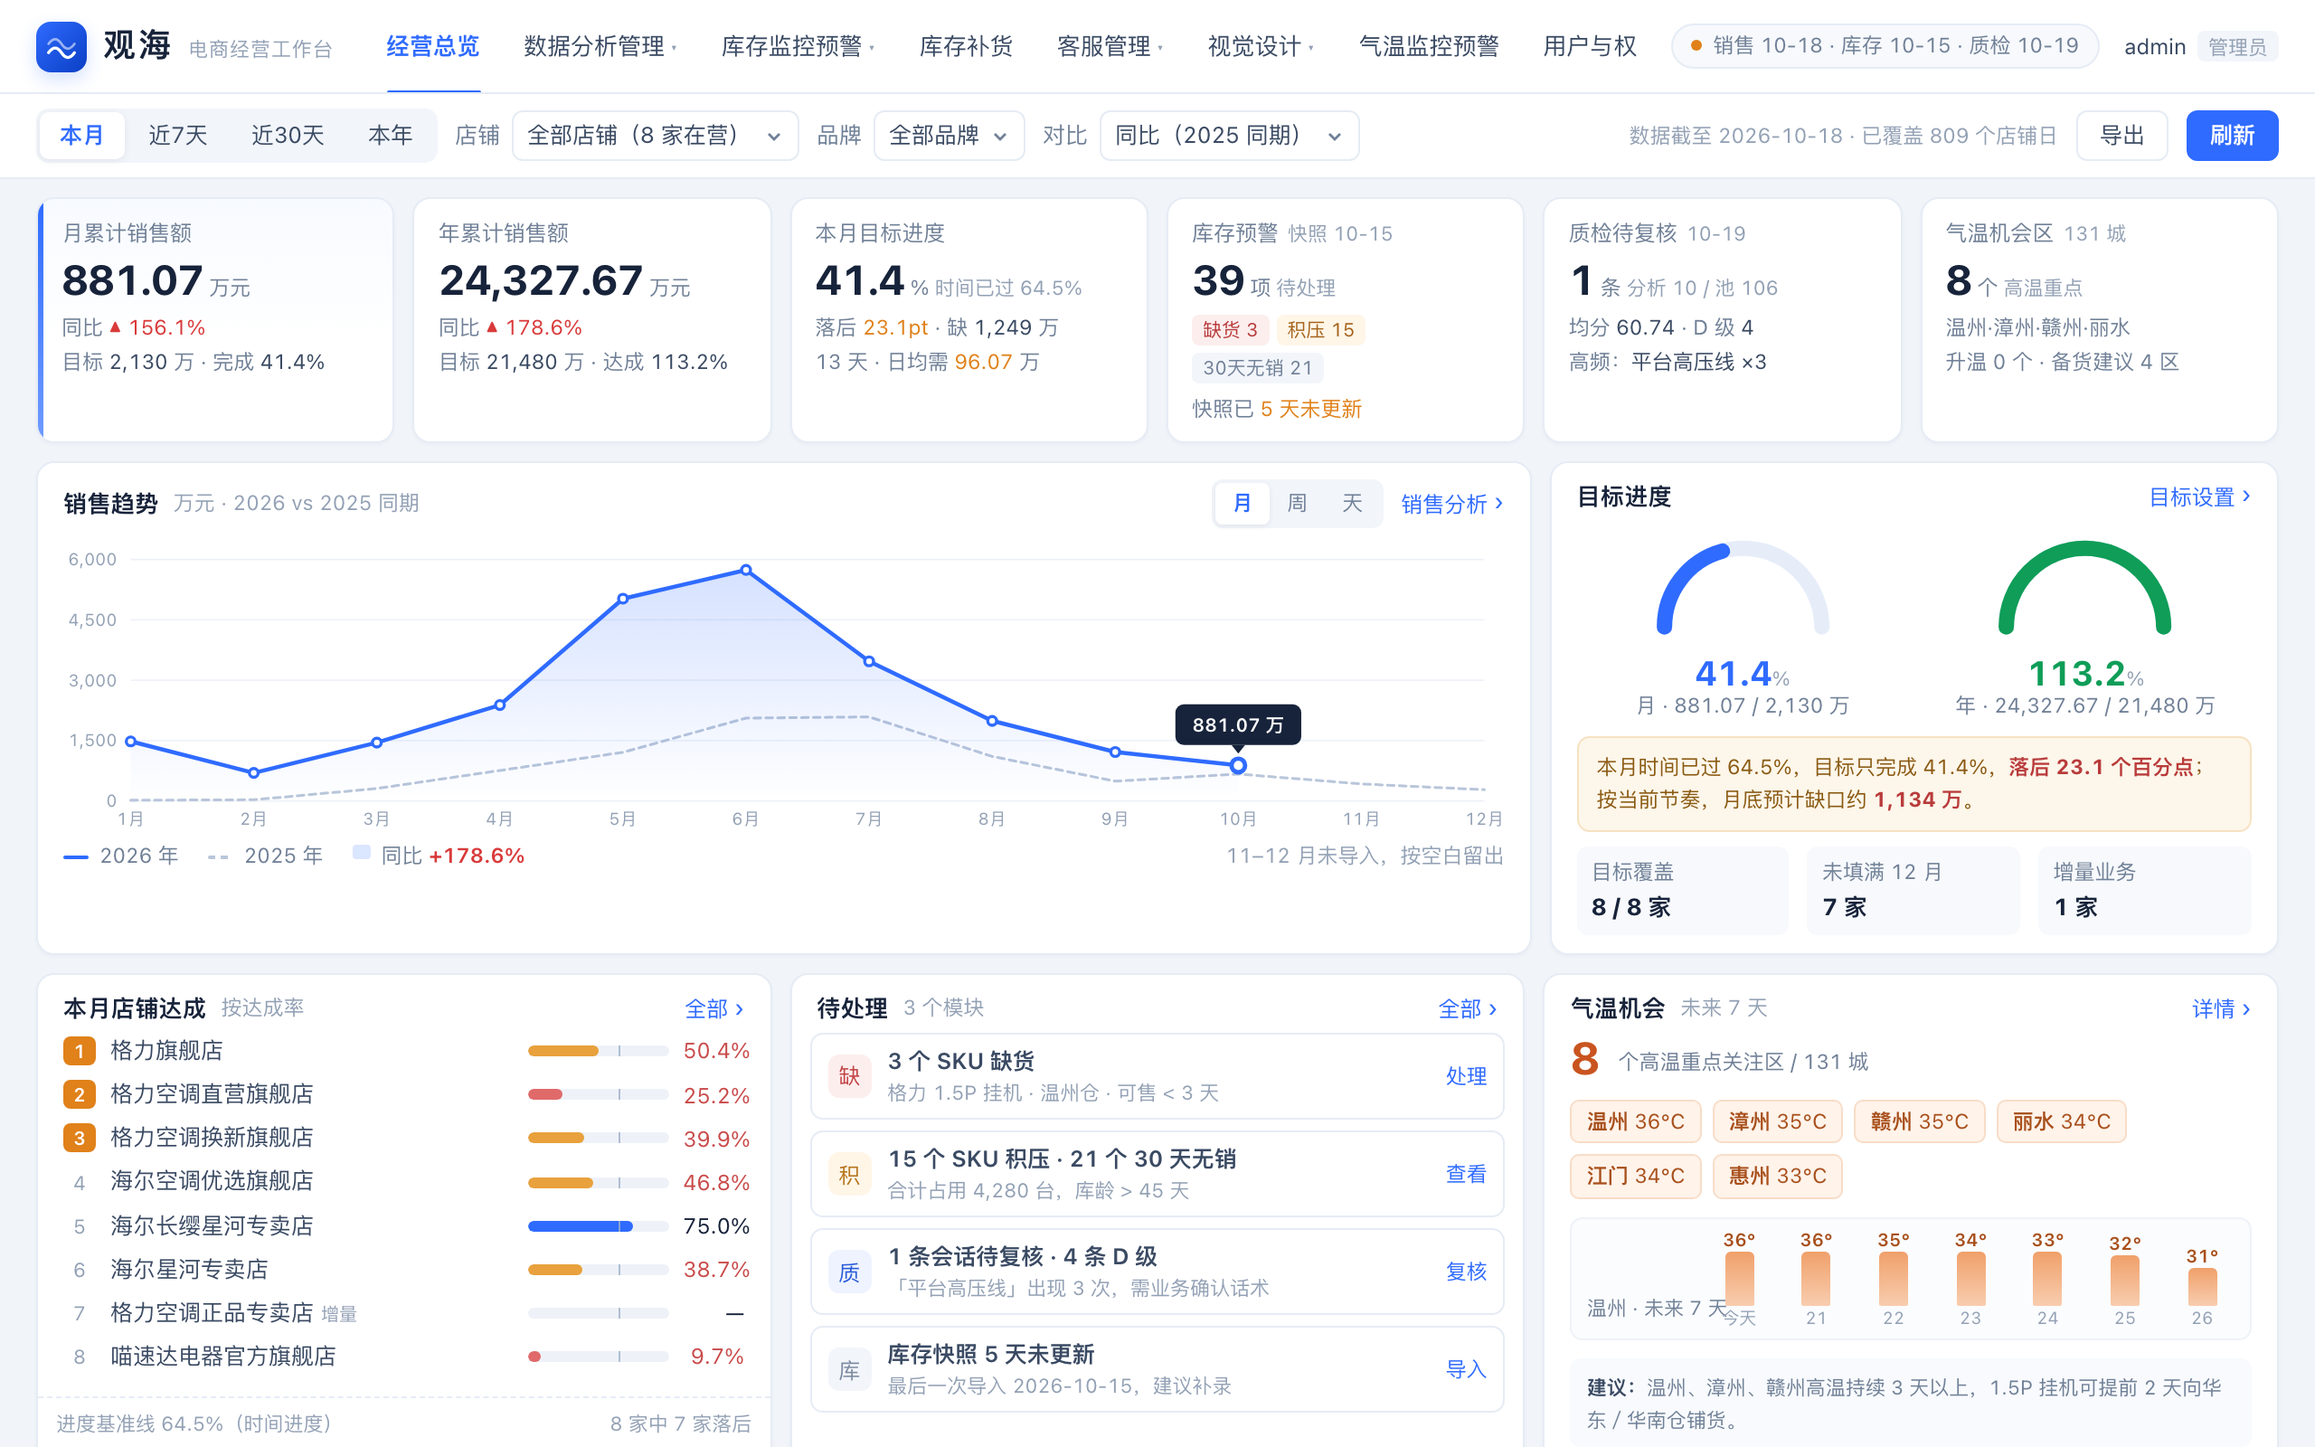
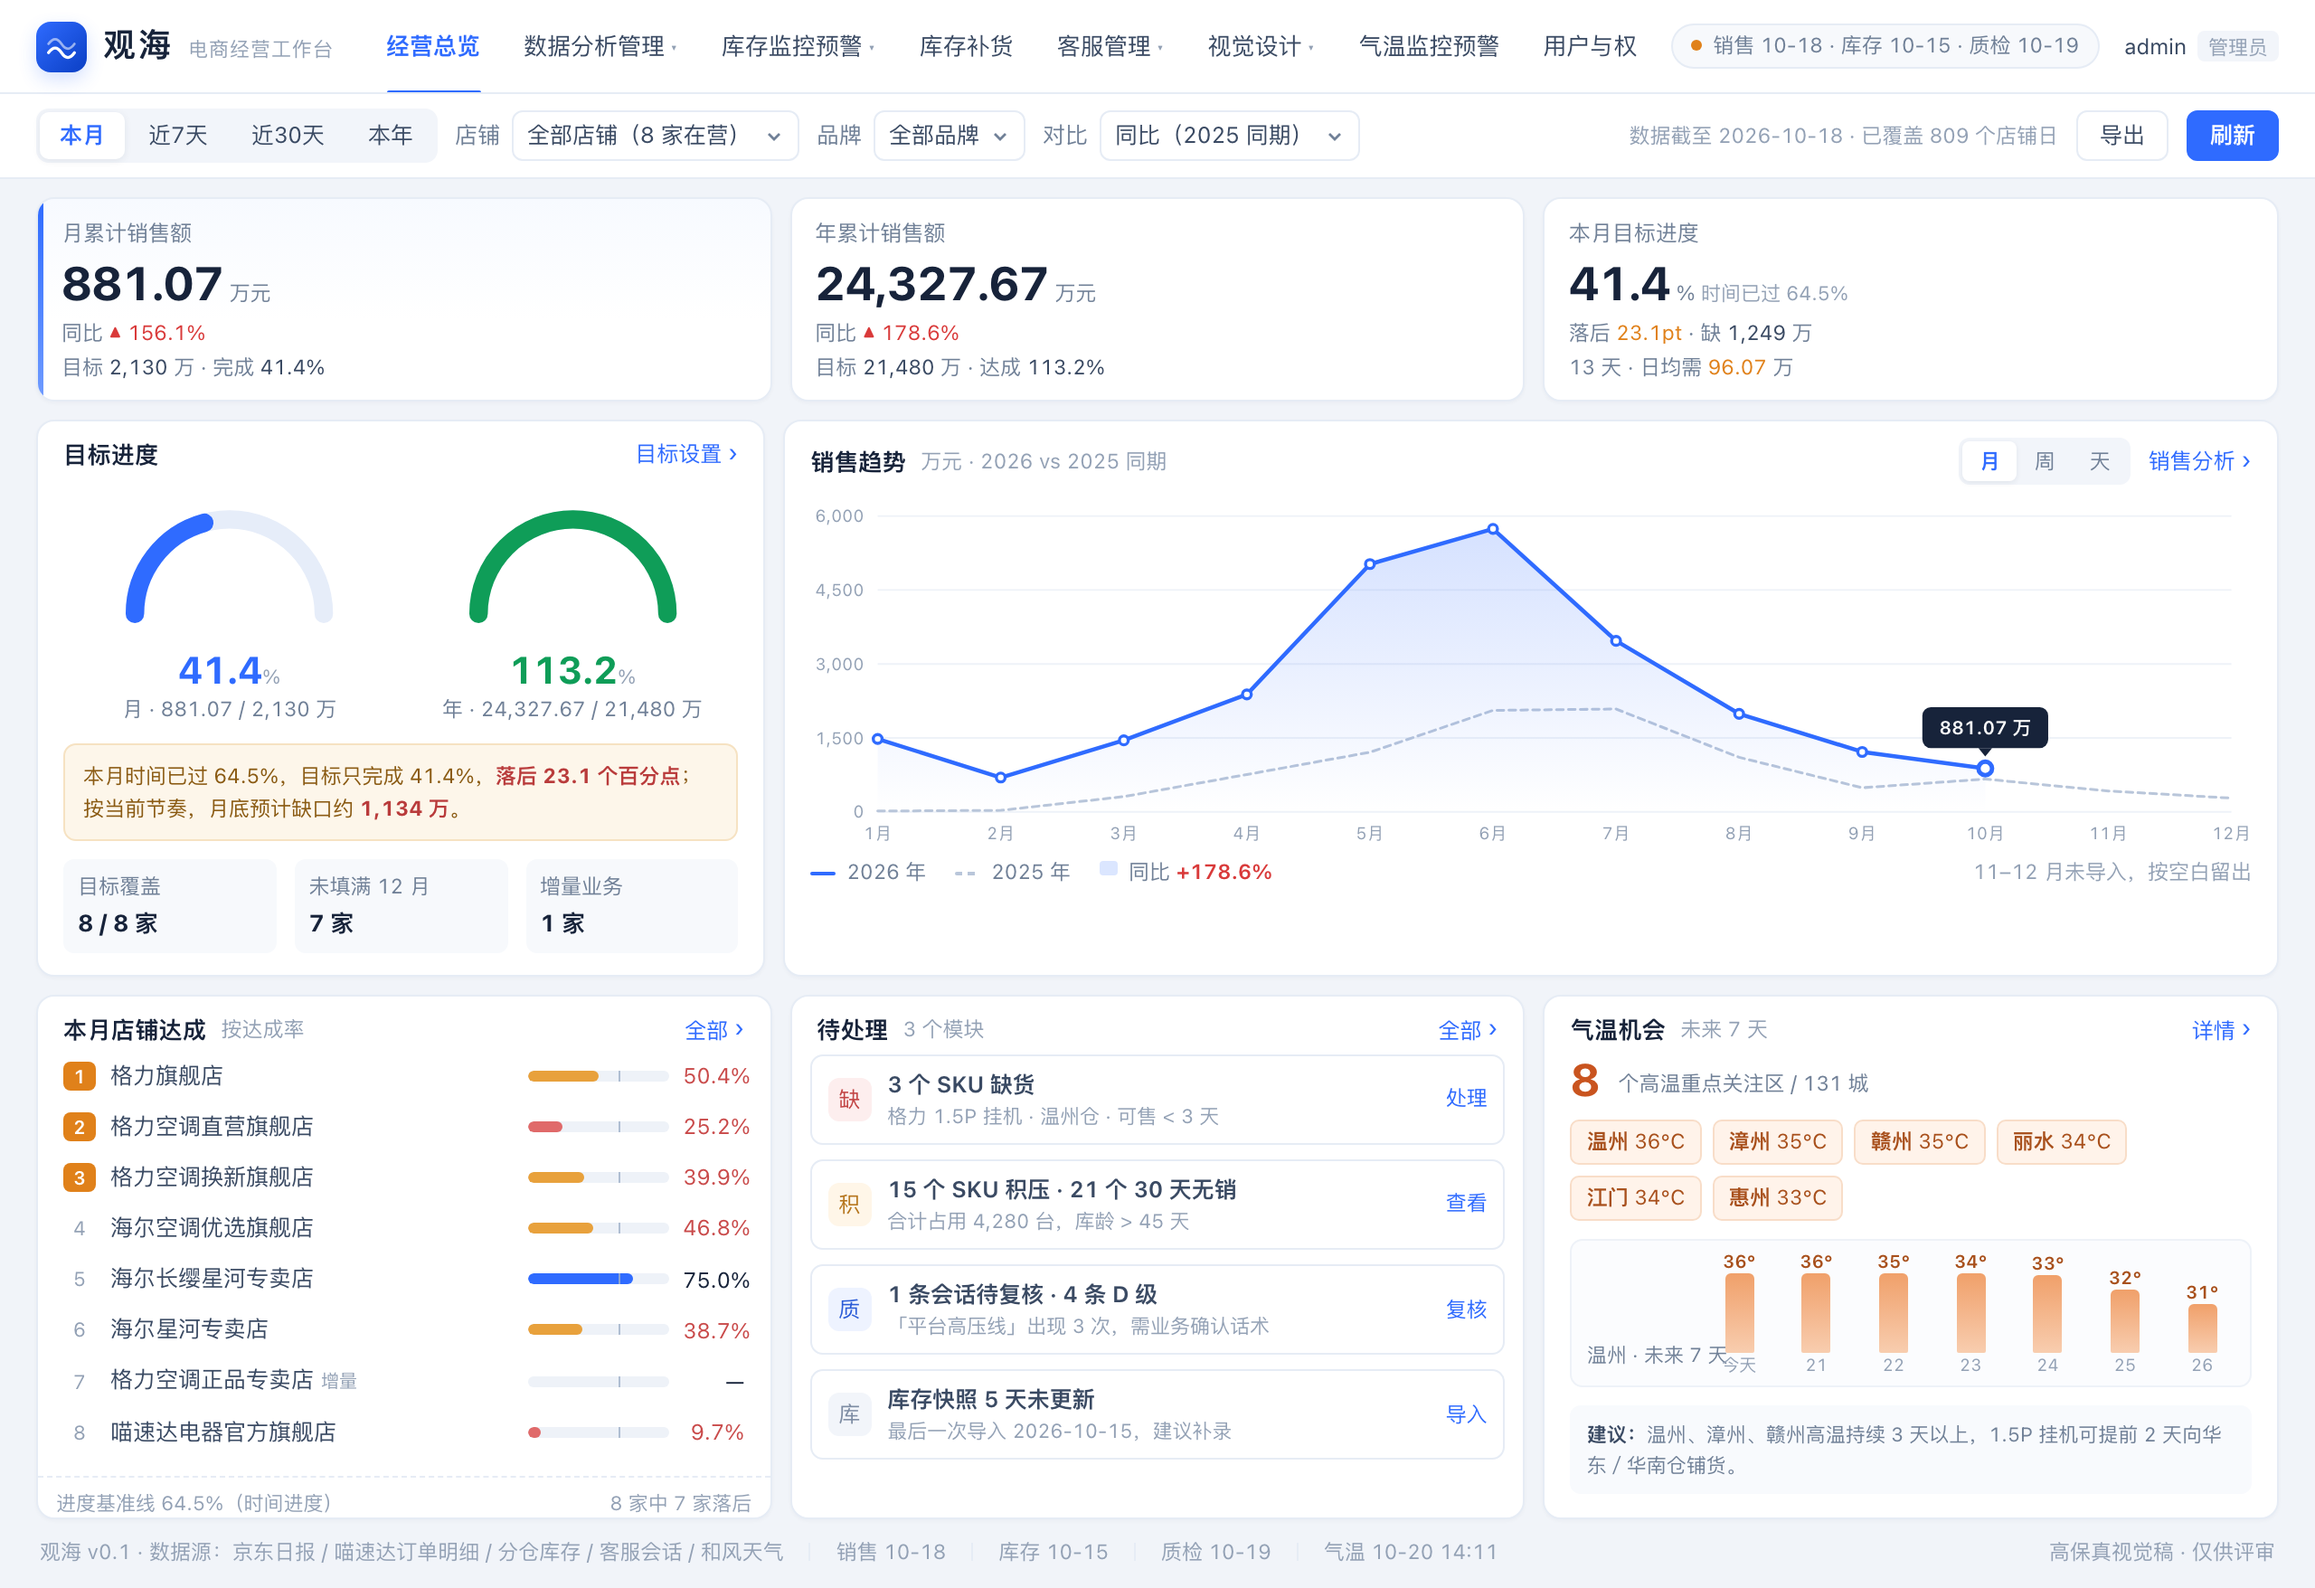
docs(mockup): 观海首页按评审意见调整——顶部 KPI 精简为 3 张，销售趋势与目标进度左右互换

diff --git a/docs/mockups/guanhai-dashboard.html b/docs/mockups/guanhai-dashboard.html
@@ -63,8 +63,8 @@ button,select{font:inherit;color:inherit}
 /* ---------- 布局 ---------- */
 main{padding:10px 20px 12px;max-width:1580px;margin:0 auto}
 .grid{display:grid;gap:10px}
-.kpis{grid-template-columns:repeat(6,1fr)}
-.row2{grid-template-columns:minmax(0,2.05fr) minmax(0,1fr);margin-top:10px}
+.kpis{grid-template-columns:repeat(3,1fr)}
+.row2{grid-template-columns:minmax(0,1fr) minmax(0,2.05fr);margin-top:10px}
 .row3{grid-template-columns:repeat(3,minmax(0,1fr));margin-top:10px}
 .card{background:var(--card);border:1px solid var(--line);border-radius:var(--r);box-shadow:0 1px 2px #17233a08}
 .card-h{display:flex;align-items:center;gap:8px;padding:9px 14px 0}
@@ -82,7 +82,7 @@ main{padding:10px 20px 12px;max-width:1580px;margin:0 auto}
 .kpi-label{display:flex;align-items:center;gap:5px;font-size:12px;color:var(--muted);white-space:nowrap}
 .kpi-label b{font-weight:400;color:var(--muted-2);font-size:11px}
 .kpi-v{display:flex;align-items:baseline;gap:3px;margin-top:4px;line-height:1.15}
-.kpi-v strong{font-size:23px;font-weight:700;letter-spacing:-.4px}
+.kpi-v strong{font-size:26px;font-weight:700;letter-spacing:-.4px}
 .kpi-v span{font-size:11.5px;color:var(--muted)}
 .kpi-v small{font-size:11px;color:var(--muted-2)}
 .kpi-meta{margin-top:5px;display:grid;gap:2px;font-size:11.5px;color:var(--muted)}
@@ -109,20 +109,20 @@ main{padding:10px 20px 12px;max-width:1580px;margin:0 auto}
 
 /* ---------- 目标 ---------- */
 .goal-body{padding:2px 14px 8px;display:grid;grid-template-columns:1fr 1fr;gap:6px}
-.gauge{text-align:center;padding-top:2px}
-.gauge svg{width:100%;height:70px}
-.gauge .cap{font-size:11.5px;color:var(--muted);margin-top:-4px}
-.gauge .val{font-size:19px;font-weight:700;margin-top:-4px}
+.gauge{text-align:center;padding-top:6px}
+.gauge svg{width:100%;height:84px}
+.gauge .cap{font-size:11.5px;color:var(--muted);margin-top:-2px}
+.gauge .val{font-size:21px;font-weight:700;margin-top:-2px}
 .gauge .val small{font-size:11px;font-weight:400;color:var(--muted-2)}
-.goal-note{margin:0 14px 8px;padding:7px 10px;border-radius:7px;background:#fdf6ea;border:1px solid #f6e2c2;font-size:11.5px;color:#8a5a12;line-height:1.6}
+.goal-note{margin:2px 14px 10px;padding:8px 10px;border-radius:7px;background:#fdf6ea;border:1px solid #f6e2c2;font-size:11.5px;color:#8a5a12;line-height:1.6}
 .goal-note b{color:#b93b3b}
-.goal-foot{display:flex;gap:10px;padding:0 14px 10px;font-size:11.5px;color:var(--muted)}
-.goal-foot div{flex:1;background:#f7f9fc;border-radius:6px;padding:6px 8px}
+.goal-foot{display:flex;gap:10px;padding:0 14px 12px;font-size:11.5px;color:var(--muted)}
+.goal-foot div{flex:1;background:#f7f9fc;border-radius:6px;padding:7px 8px}
 .goal-foot b{display:block;font-size:13px;color:var(--ink);margin-top:2px}
 
 /* ---------- 榜单 ---------- */
 .rank-wrap{padding:2px 6px 6px}
-.rank{display:grid;grid-template-columns:18px minmax(0,1fr) 78px 34px;align-items:center;gap:8px;padding:3px 8px;border-radius:6px}
+.rank{display:grid;grid-template-columns:18px minmax(0,1fr) 78px 34px;align-items:center;gap:8px;padding:5px 8px;border-radius:6px}
 .rank:hover{background:#f8fafd}
 .rank .no{font-size:11px;color:var(--muted-2);text-align:center}
 .rank .no.top{color:#fff;background:#e0811a;border-radius:4px;font-weight:600;font-size:10.5px;line-height:16px}
@@ -138,8 +138,8 @@ main{padding:10px 20px 12px;max-width:1580px;margin:0 auto}
 .rank-foot{display:flex;justify-content:space-between;padding:6px 10px 0;margin-top:4px;border-top:1px dashed var(--line);font-size:11px;color:var(--muted-2)}
 
 /* ---------- 待办 ---------- */
-.todo{padding:4px 10px 8px;display:grid;gap:6px}
-.todo-row{display:flex;align-items:center;gap:9px;padding:6px 9px;border:1px solid var(--line);border-radius:7px;background:#fff}
+.todo{padding:4px 10px 10px;display:grid;gap:8px}
+.todo-row{display:flex;align-items:center;gap:9px;padding:7px 9px;border:1px solid var(--line);border-radius:7px;background:#fff}
 .todo-row .ic{width:24px;height:24px;border-radius:6px;display:grid;place-items:center;font-size:12px;flex:0 0 auto}
 .todo-row .ic.red{background:var(--bad-soft);color:#c24545}
 .todo-row .ic.amber{background:var(--warn-soft);color:#b6761e}
@@ -160,7 +160,7 @@ main{padding:10px 20px 12px;max-width:1580px;margin:0 auto}
 .wx-city b{font-weight:600}
 .wx-week{display:flex;align-items:flex-end;gap:10px;margin:4px 0 10px;padding:6px 8px;background:#fbfcfe;border:1px solid var(--line-2);border-radius:7px}
 .wx-week-h{font-size:11px;color:var(--muted);white-space:nowrap;padding-bottom:2px;line-height:1.5;width:56px}
-.wx-bars{flex:1;display:grid;grid-template-columns:repeat(7,1fr);gap:6px;align-items:end;height:54px}
+.wx-bars{flex:1;display:grid;grid-template-columns:repeat(7,1fr);gap:6px;align-items:end;height:68px}
 .wx-bars div{display:flex;flex-direction:column;align-items:center;justify-content:flex-end;height:100%;gap:2px}
 .wx-bars b{font-size:10px;color:#a8501c;font-weight:600;line-height:1}
 .wx-bars i{display:block;width:100%;max-width:16px;border-radius:3px 3px 1px 1px;background:linear-gradient(180deg,#f0a06a,#f8cdaf);min-height:4px}
@@ -173,7 +173,7 @@ main{padding:10px 20px 12px;max-width:1580px;margin:0 auto}
 .foot .sep{width:1px;height:10px;background:var(--line)}
 .foot .spacer{flex:1}
 @media(max-width:1180px){
-  .kpis{grid-template-columns:repeat(3,1fr)}
+  .kpis{grid-template-columns:1fr}
   .row2,.row3{grid-template-columns:1fr}
   .nav{display:none}
 }
@@ -219,7 +219,7 @@ main{padding:10px 20px 12px;max-width:1580px;margin:0 auto}
 </div>
 
 <main>
-  <!-- 第一屏：6 个 KPI -->
+  <!-- 第一屏：3 个核心 KPI -->
   <section class="grid kpis">
     <article class="card kpi accent">
       <div class="kpi-label">月累计销售额</div>
@@ -249,56 +249,10 @@ main{padding:10px 20px 12px;max-width:1580px;margin:0 auto}
         <div>13 天 · 日均需 <span class="warnc num">96.07</span> 万</div>
       </div>
     </article>
-
-    <article class="card kpi">
-      <div class="kpi-label">库存预警 <b>快照 10-15</b></div>
-      <div class="kpi-v"><strong class="num">39</strong><span>项</span><small>待处理</small></div>
-      <div class="chipbar">
-        <span class="chip red">缺货 3</span>
-        <span class="chip amber">积压 15</span>
-        <span class="chip">30天无销 21</span>
-      </div>
-      <div class="kpi-meta" style="margin-top:6px"><div>快照已 <span class="warnc">5 天未更新</span></div></div>
-    </article>
-
-    <article class="card kpi">
-      <div class="kpi-label">质检待复核 <b>10-19</b></div>
-      <div class="kpi-v"><strong class="num">1</strong><span>条</span><small>分析 10 / 池 106</small></div>
-      <div class="kpi-meta">
-        <div>均分 <i class="warnc num">60.74</i> · D 级 <i class="badc num">4</i></div>
-        <div>高频：<i>平台高压线 ×3</i></div>
-      </div>
-    </article>
-
-    <article class="card kpi">
-      <div class="kpi-label">气温机会区 <b>131 城</b></div>
-      <div class="kpi-v"><strong class="num">8</strong><span>个</span><small>高温重点</small></div>
-      <div class="kpi-meta">
-        <div>温州·漳州·赣州·丽水</div>
-        <div>升温 0 个 · 备货建议 4 区</div>
-      </div>
-    </article>
   </section>
 
-  <!-- 趋势 + 目标 -->
+  <!-- 目标进度 + 趋势（左窄右宽） -->
   <section class="grid row2">
-    <article class="card">
-      <div class="card-h">
-        <h3>销售趋势</h3><span class="sub">万元 · 2026 vs 2025 同期</span>
-        <div class="right">
-          <div class="tabs"><span class="on">月</span><span>周</span><span>天</span></div>
-          <a class="link" href="#">销售分析</a>
-        </div>
-      </div>
-      <div class="trend-body"><svg id="trend" viewBox="0 0 860 176" role="img" aria-label="2026 与 2025 月度销售趋势"></svg></div>
-      <div class="legend">
-        <span><i class="solid"></i>2026 年</span>
-        <span><i class="dash"></i>2025 年</span>
-        <span><i class="area"></i>同比 <b class="up" style="font-weight:600">+178.6%</b></span>
-        <span style="margin-left:auto;color:var(--muted-2)">11–12 月未导入，按空白留出</span>
-      </div>
-    </article>
-
     <article class="card">
       <div class="card-h">
         <h3>目标进度</h3>
@@ -321,6 +275,23 @@ main{padding:10px 20px 12px;max-width:1580px;margin:0 auto}
         <div>目标覆盖<b>8 / 8 家</b></div>
         <div>未填满 12 月<b>7 家</b></div>
         <div>增量业务<b>1 家</b></div>
+      </div>
+    </article>
+
+    <article class="card">
+      <div class="card-h">
+        <h3>销售趋势</h3><span class="sub">万元 · 2026 vs 2025 同期</span>
+        <div class="right">
+          <div class="tabs"><span class="on">月</span><span>周</span><span>天</span></div>
+          <a class="link" href="#">销售分析</a>
+        </div>
+      </div>
+      <div class="trend-body"><svg id="trend" viewBox="0 0 860 210" role="img" aria-label="2026 与 2025 月度销售趋势"></svg></div>
+      <div class="legend">
+        <span><i class="solid"></i>2026 年</span>
+        <span><i class="dash"></i>2025 年</span>
+        <span><i class="area"></i>同比 <b class="up" style="font-weight:600">+178.6%</b></span>
+        <span style="margin-left:auto;color:var(--muted-2)">11–12 月未导入，按空白留出</span>
       </div>
     </article>
   </section>
@@ -415,7 +386,7 @@ const SHOPS=[
 /* ---------------- 趋势图 ---------------- */
 (function(){
   const svg=document.getElementById('trend');
-  const W=860,H=176,L=46,R=18,T=12,B=22;
+  const W=860,H=210,L=46,R=18,T=12,B=24;
   const max=6000,innerW=W-L-R,innerH=H-T-B;
   const x=i=>L+(innerW/(CUR.length-1))*i;
   const y=v=>T+innerH-(v/max)*innerH;
